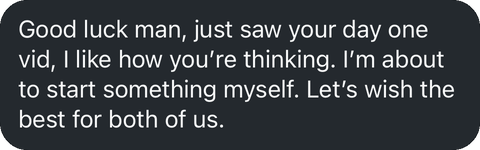
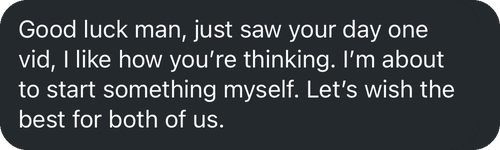
Even DM grid; mobile: tap-to-flip seals, tool ticker, touch reel arrows
DMs
- Every bubble rebuilt at one shared width with the same left edge,
  padding, scale and corner radius; text never clipped.
- Two balanced columns (max 860px) centred under a centred label;
  drops the two-bubble pair that could not match.

Mobile
- Wax seals flip on tap (phone lists and wide layout on tablets);
  hover flip now only applies on devices that actually hover.
- Section headings get a slow tool ticker under the tagline in place
  of the orbit, which has no room on phones.
- Reel card arrows show by default on touch screens.

Claude-Session: https://claude.ai/code/session_01L1qMa3Q9ta1ubYoYjS5G9L

diff --git a/src/components/blocks/FeatureBlock.tsx b/src/components/blocks/FeatureBlock.tsx
@@ -3,7 +3,7 @@ import { motion, MotionValue, useScroll } from "motion/react";
 import ProofStage from "./ProofStage";
 import HotspotBrowser from "./HotspotBrowser";
 import { AnimatedTile, SidePopups } from "./MediaSlots";
-import { MarginNote, SealFace } from "./ProofStage";
+import { MarginNote, TapSeal } from "./ProofStage";
 import ReelCards from "./ReelCards";
 import { ProjectData } from "../../data/portfolio";
 import {
@@ -89,11 +89,9 @@ function SlotMarginalia({
       </div>
       {/* phones: italic list with a small seal per line */}
       <ul className="lg:hidden mt-5 space-y-2 text-left">
-        {labels.map((l) => (
+        {labels.map((l, k) => (
           <li key={l} className="flex items-center gap-3 font-editorial-serif italic text-[17px] text-[var(--text-ink)]">
-            <span className="w-7 h-7 shrink-0 -rotate-6" style={{ filter: "drop-shadow(0 2px 3px rgba(63,22,22,0.3))" }}>
-              <SealFace seed={l} glyph={l.charAt(0)} />
-            </span>
+            <TapSeal label={l} index={k} />
             <span>
               <span className="text-[var(--accent-oxblood)]">{l.charAt(0)}</span>
               {l.slice(1)}
@@ -309,36 +307,30 @@ export default function FeatureBlock({ project, index }: FeatureBlockProps) {
       {/* FROM THE DMS: real message bubbles (names and photos cropped out), laid out straight in a masonry grid */}
       {project.dmShots && project.dmShots.length > 0 && (
         <div className="pb-[clamp(3rem,6vw,5rem)]">
-          <span className="block text-[12px] uppercase tracking-[0.22em] text-[var(--taupe-subtle)]">From the DMs</span>
-          <div className="mt-8 columns-1 md:columns-2 xl:columns-3 gap-6">
-            {project.dmShots.map((src, i) => (
-              <motion.figure
-                key={src}
-                initial={{ opacity: 0, y: 20 }}
-                whileInView={{ opacity: 1, y: 0 }}
-                viewport={{ once: true, amount: 0.5 }}
-                transition={{ duration: 0.7, delay: (i % 3) * 0.08, ease: [0.2, 0.8, 0.2, 1] }}
-                className="mb-6 break-inside-avoid"
-              >
-                {/* transparent rounded PNG: the shadow follows the bubble's own shape */}
-                <img
-                  src={src}
-                  alt="Message from a viewer"
-                  loading="lazy"
-                  decoding="async"
-                  // same scale for every bubble: width relative to the widest one (490px), so text
-                  // size matches across cards instead of short bubbles being stretched
-                  onLoad={(e) => {
-                    const img = e.currentTarget;
-                    img.style.width = `${Math.min(100, (img.naturalWidth / 490) * 100)}%`;
-                  }}
-                  className="block w-full max-w-full h-auto transition-transform duration-300 ease-out hover:-translate-y-1"
-                  style={{ filter: "drop-shadow(0 12px 22px rgba(31,27,22,0.28))" }}
-                />
-              </motion.figure>
+          <span className="block text-center text-[12px] uppercase tracking-[0.22em] text-[var(--taupe-subtle)]">From the DMs</span>
+          <div className="mt-8 grid grid-cols-1 md:grid-cols-2 gap-6 md:gap-8 items-start max-w-[860px] mx-auto">
+            {project.dmShots.map((col, c) => (
+              <div key={c} className="flex flex-col gap-6">
+                {col.map((src, i) => (
+                  <motion.img
+                    key={src}
+                    src={src}
+                    alt="Message from a viewer"
+                    loading="lazy"
+                    decoding="async"
+                    initial={{ opacity: 0, y: 20 }}
+                    whileInView={{ opacity: 1, y: 0 }}
+                    viewport={{ once: true, amount: 0.5 }}
+                    transition={{ duration: 0.7, delay: (c * 0.08 + i * 0.06), ease: [0.2, 0.8, 0.2, 1] }}
+                    // every bubble image is the same width, so w-full keeps text size identical
+                    className="block w-full h-auto"
+                    style={{ filter: "drop-shadow(0 12px 22px rgba(31,27,22,0.26))" }}
+                  />
+                ))}
+              </div>
             ))}
           </div>
-          <p className="mt-2 text-[12px] italic text-[var(--taupe-subtle)]">Real messages from viewers. Names and photos removed for their privacy.</p>
+          <p className="mt-6 text-center text-[12px] italic text-[var(--taupe-subtle)]">Real messages from viewers. Names and photos removed for their privacy.</p>
         </div>
       )}
 

diff --git a/src/components/blocks/ProofStage.tsx b/src/components/blocks/ProofStage.tsx
@@ -1,4 +1,4 @@
-import { useId, useRef } from "react";
+import { useId, useRef, useState } from "react";
 import { motion, useScroll, useTransform, MotionValue } from "motion/react";
 import { EASE } from "../../lib/motion";
 
@@ -109,13 +109,36 @@ export function SealFace({ seed, glyph, serif = true }: { seed: string; glyph: s
 /**
  * Wax seal for a tool: stamped in as the note appears, flips on hover to show its Roman numeral.
  */
+/** Small seal for phone lists: tap to flip between the initial and the Roman numeral. */
+export function TapSeal({ label, index }: { label: string; index: number }) {
+  const [flipped, setFlipped] = useState(false);
+  return (
+    <button
+      type="button"
+      aria-label={`${label}: tap to flip`}
+      aria-pressed={flipped}
+      onClick={() => setFlipped((f) => !f)}
+      className={`seal w-9 h-9 shrink-0 -rotate-6 cursor-pointer ${flipped ? "is-flipped" : ""}`}
+      style={{ filter: "drop-shadow(0 2px 3px rgba(63,22,22,0.3))" }}
+    >
+      <span className="seal-inner block">
+        <span className="seal-face block"><SealFace seed={label} glyph={label.charAt(0)} /></span>
+        <span className="seal-face seal-back block"><SealFace seed={label + "b"} glyph={ROMAN[index] ?? "❧"} serif={false} /></span>
+      </span>
+    </button>
+  );
+}
+
 function WaxSeal({ label, index, build, s0 }: { label: string; index: number; build: MotionValue<number>; s0: number }) {
   const scale = useTransform(build, [s0 + 0.02, s0 + 0.12, s0 + 0.18], [1.7, 0.9, 1]);
   const rotate = useTransform(build, [s0 + 0.02, s0 + 0.18], [-28, -6]);
   const opacity = useTransform(build, [s0 + 0.02, s0 + 0.08], [0, 1]);
+  const [flipped, setFlipped] = useState(false);
   return (
     <motion.div
-      className="seal w-12 h-12 shrink-0"
+      // tap flips it too (tablets in the wide layout); mouse users get the hover flip
+      onClick={() => setFlipped((f) => !f)}
+      className={`seal w-12 h-12 shrink-0 cursor-pointer ${flipped ? "is-flipped" : ""}`}
       style={{ scale, rotate, opacity, filter: "drop-shadow(0 3px 5px rgba(63,22,22,0.35))" }}
     >
       <div className="seal-inner">
@@ -282,11 +305,9 @@ export default function ProofStage({
         <div className={`relative ${heightClass}`}>{win}</div>
         {cards.length > 0 && notes && (
           <ul className="mt-6 space-y-2">
-            {cards.map((c) => (
+            {cards.map((c, i) => (
               <li key={c} className="flex items-center gap-3 font-editorial-serif italic text-[17px] text-[var(--text-ink)]">
-                <span className="w-7 h-7 shrink-0 -rotate-6" style={{ filter: "drop-shadow(0 2px 3px rgba(63,22,22,0.3))" }}>
-                  <SealFace seed={c} glyph={c.charAt(0)} />
-                </span>
+                <TapSeal label={c} index={i} />
                 <span>
                 <span className="text-[var(--accent-oxblood)]">{c.charAt(0)}</span>
                 {c.slice(1)}

diff --git a/src/components/scenes/SceneShowcase.tsx b/src/components/scenes/SceneShowcase.tsx
@@ -469,6 +469,46 @@ function Orbit({ labels, build, exit, reduced }: { labels: string[]; build: V; e
   );
 }
 
+/**
+ * Phones: no room for an orbit around the heading, so the same tools drift past in a slow
+ * ticker under the tagline, with faded edges. Same dots and spaced capitals as the orbit.
+ */
+function ToolTicker({ labels, build, exit, reduced }: { labels: string[]; build: V; exit: V; reduced: boolean }) {
+  const prog = useRange(build, 0.3, 0.65);
+  const y = useTransform(() => `${-exit.get() * CHIP_EXIT_VH}vh`);
+  const row = (key: string) => (
+    <div key={key} className="flex shrink-0 items-center gap-7 pr-7">
+      {labels.map((label, i) => (
+        <span key={label} className="flex items-center gap-2 whitespace-nowrap">
+          <span
+            className="block w-1.5 h-1.5 rounded-full"
+            style={{ background: i % 3 === 0 ? "#E88080" : CREAM, boxShadow: `0 0 8px ${i % 3 === 0 ? "rgba(232,128,128,0.9)" : "rgba(244,239,230,0.7)"}` }}
+          />
+          <span className="text-[10px] uppercase tracking-[0.24em]" style={{ color: CREAM, textShadow: "0 1px 10px rgba(0,0,0,0.85)" }}>
+            {label}
+          </span>
+        </span>
+      ))}
+    </div>
+  );
+  return (
+    <motion.div
+      className="absolute left-0 right-0 bottom-[19svh] lg:hidden overflow-hidden"
+      style={{
+        opacity: prog,
+        y,
+        WebkitMaskImage: "linear-gradient(to right, transparent, #000 14%, #000 86%, transparent)",
+        maskImage: "linear-gradient(to right, transparent, #000 14%, #000 86%, transparent)",
+      }}
+    >
+      <div className={`flex w-max ${reduced ? "" : "tool-ticker"}`}>
+        {row("a")}
+        {row("b")}
+      </div>
+    </motion.div>
+  );
+}
+
 /** Draws the orbit ellipse at the same centre, radii and tilt the labels use. */
 function OrbitPath({ tilt }: { tilt: number }) {
   const [box, setBox] = useState({ W: 0, H: 0 });
@@ -552,6 +592,7 @@ export default function SceneShowcase({
 
       {/* floating labels, each at its own depth */}
       <Orbit labels={chips.slice(0, 12)} build={reduced ? ONE : build} exit={reduced ? ZERO : exit} reduced={reduced} />
+      <ToolTicker labels={chips.slice(0, 12)} build={reduced ? ONE : build} exit={reduced ? ZERO : exit} reduced={reduced} />
     </div>
   );
 }

diff --git a/src/data/portfolio.ts b/src/data/portfolio.ts
@@ -322,8 +322,8 @@ export interface ProjectData {
   pillars?: { title: string; when: string; note: string }[];
   /** Short viewer quotes (anonymised). */
   quotes?: string[];
-  /** Cropped DM screenshots (message bubble only, no names or photos). */
-  dmShots?: string[];
+  /** Cropped DM screenshots (message bubble only, no names or photos), as two balanced columns. */
+  dmShots?: string[][];
   /** Real screenshot shown inside the browser walkthrough (a path under /public). */
   screenshot?: string;
   /** Aspect ratio of the screenshot (width/height), e.g. "1375/762". */
@@ -509,7 +509,11 @@ export const CONTENT_PROJECT: ProjectData = {
     { cover: "/content/reel-top-2.jpg", url: "https://www.instagram.com/dylanwang.main/reel/DYq9Iq5tZCa/", views: "776K", likes: "33.2K", engagement: "4.3%", vsMedian: "192×" },
     { cover: "/content/reel-top-3.jpg", url: "https://www.instagram.com/dylanwang.main/reel/DX3gglwNAi4/", views: "160K", likes: "8.9K", engagement: "5.6%", vsMedian: "40×" },
   ],
-  dmShots: [1, 3, 2, 6, 4, 7, 5].map((n) => `/content/dms/dm-${n}.png`),
+  // all bubbles share one width; columns are balanced by height (1+3 ~ 2+6+4+5)
+  dmShots: [
+    ["/content/dms/dm-1.png", "/content/dms/dm-3.png"],
+    ["/content/dms/dm-2.png", "/content/dms/dm-6.png", "/content/dms/dm-4.png", "/content/dms/dm-5.png"],
+  ],
   tools: ["DaVinci Resolve", "Buffer", "Canva"],
   toolNotes: {
     "DaVinci Resolve": "cuts, pacing and color",

diff --git a/src/index.css b/src/index.css
@@ -187,7 +187,12 @@ body {
 .seal { perspective: 400px; }
 .seal-inner { position: relative; width: 100%; height: 100%; transform-style: preserve-3d; transition: transform 0.7s cubic-bezier(0.2, 0.8, 0.2, 1); }
 /* own hover scope: a generic .group further up the page used to flip every seal at once */
-.seal-host:hover .seal-inner { transform: rotateY(180deg); }
+@media (hover: hover) { .seal-host:hover .seal-inner { transform: rotateY(180deg); } }
+.seal.is-flipped .seal-inner { transform: rotateY(180deg); }
 .seal-face { position: absolute; inset: 0; backface-visibility: hidden; -webkit-backface-visibility: hidden; }
 .seal-back { transform: rotateY(180deg); }
 @media (prefers-reduced-motion: reduce) { .seal-inner { transition: none; } }
+
+/* Phone tool ticker under each section heading: two copies of the row, so -50% loops seamlessly */
+@keyframes tool-ticker { from { transform: translateX(0); } to { transform: translateX(-50%); } }
+.tool-ticker { animation: tool-ticker 38s linear infinite; will-change: transform; }

diff --git a/src/components/blocks/ReelCards.tsx b/src/components/blocks/ReelCards.tsx
@@ -81,7 +81,7 @@ function ReelCard({
       </div>
       <span
         aria-hidden="true"
-        className="absolute right-3 bottom-3 w-7 h-7 rounded-full grid place-items-center text-[13px] text-white bg-[var(--accent-pop)] opacity-0 translate-y-1 transition-all duration-300 group-hover:opacity-100 group-hover:translate-y-0"
+        className="absolute right-3 bottom-3 w-7 h-7 rounded-full grid place-items-center text-[13px] text-white bg-[var(--accent-pop)] opacity-0 translate-y-1 transition-all duration-300 group-hover:opacity-100 group-hover:translate-y-0 [@media(hover:none)]:opacity-100 [@media(hover:none)]:translate-y-0"
       >
         ↗
       </span>
